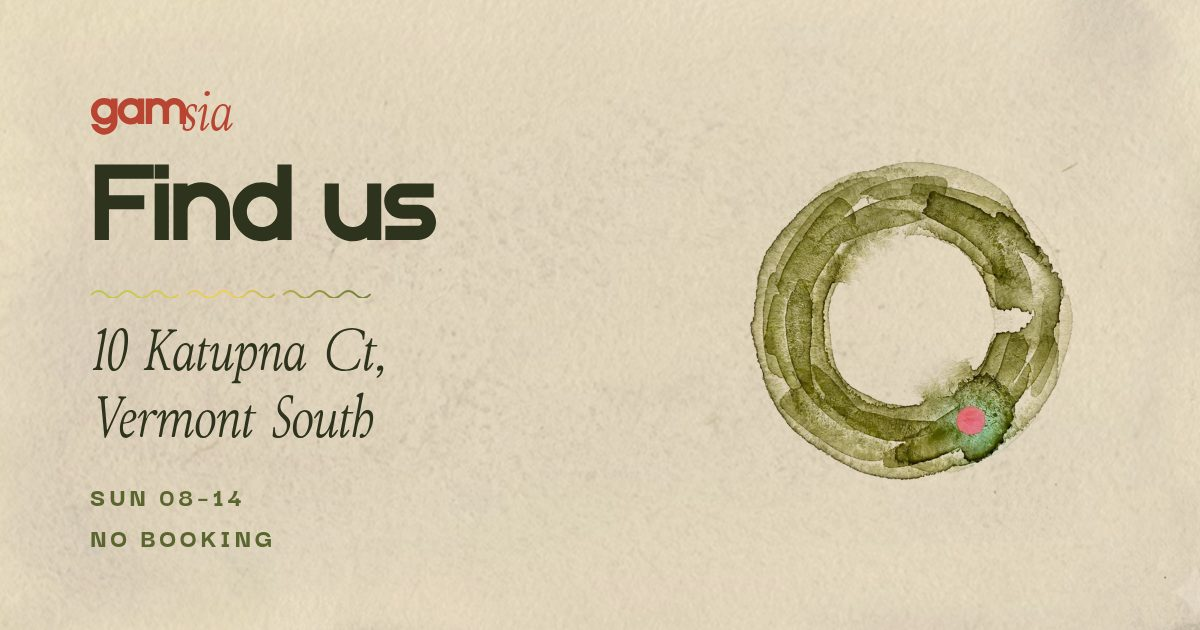
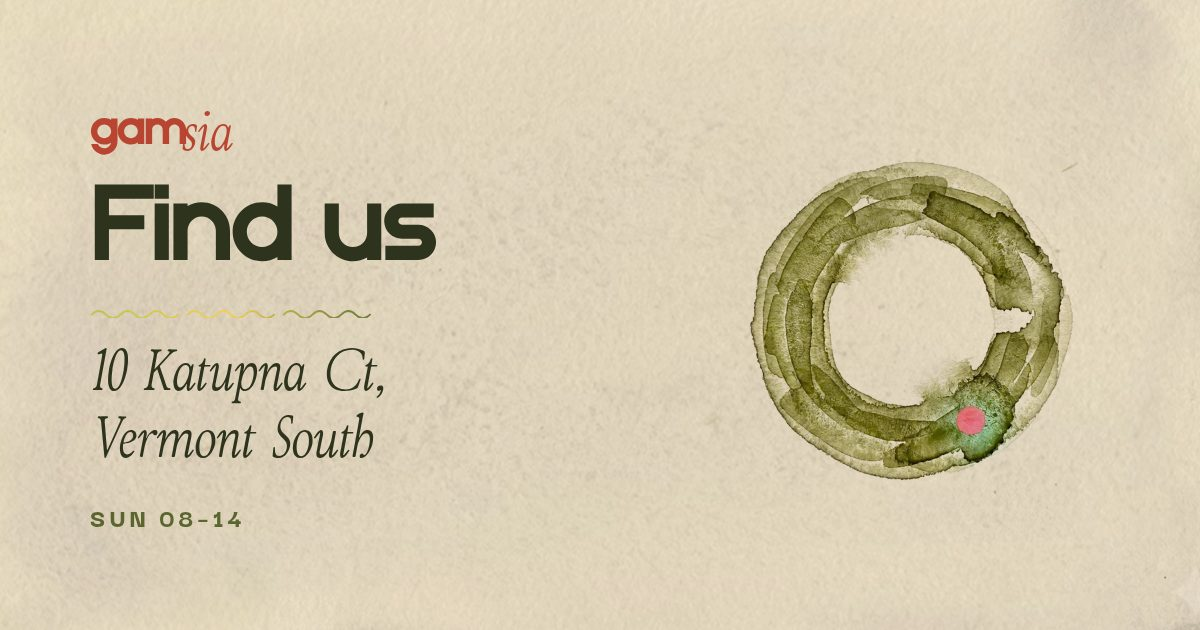
Drop the section notes that were not saying anything (#32)
Every heading on the site carried a two-word italic under it, and most of
them were padding. "The address / No booking" is a non-sequitur; "The room /
Six stools" repeats the first sentence of the paragraph below it word for
word; "The hours / All of them" and "Say hello / Not a form" say nothing at
all. On the board, "Cold / From the fridge" and "Matcha / Built to order"
restate the section name, and "Kitchen / Under the grill" and "Desserts /
Fresh from the oven" are decoration.

A tag under every heading also flattens the two notes that earn their place:
Coffee's "Oat, no charge" and Take home's "While it lasts" are both things a
customer acts on, and they read as filler when they are surrounded by filler.
Those two stay; the other eight are gone.

The find-us social card had "No booking" hardcoded in build-og.mjs — the one
string on any card written down in the tool rather than lifted from the site,
against that file's own rule. Its caps line is now just the hours.

The bars themselves are unchanged: sec-head is a flex row and the note was
always optional (app.js, sync-static.mjs and EDITING.md all already guarded
for its absence), so each bar simply shrinks to its name and its painting
follows. Checked on the board and on find-us, desktop and phone, including
the short names where the spot had the most room to reach back over the type.

diff --git a/menu.html b/menu.html
@@ -175,13 +175,13 @@
          the page works with no JavaScript and so crawlers can read it; if the
          two ever disagree the JSON wins and the board is rebuilt. -->
 <!--gen:board-->
-    <div class="board" data-menu-sig="1ncialf">
+    <div class="board" data-menu-sig="15rjyqm">
       <div class="board-col">
         <section class="sec" data-sec="coffee" style="--i:0"><div class="sec-head"><h2 class="sec-name">Coffee</h2><p class="sec-note">Oat, no charge</p><img class="spot spot--cup" width="330" height="177" alt="Watercolour of a green and lilac cup, half full, a small red mark on its side." loading="lazy" decoding="async" sizes="(max-width:719px) 240px, (max-width:1179px) 260px, 330px" srcset="art/spot-cup-330w.avif 330w, art/spot-cup-660w.avif 660w" src="art/spot-cup-660w.webp"></div><ul class="items"><li class="item" data-item="filter"><span class="item-name">Filter</span><span class="item-lead" aria-hidden="true"></span><span class="item-price">3.20</span></li><li class="item" data-item="espresso"><span class="item-name">Espresso</span><span class="item-lead" aria-hidden="true"></span><span class="item-price">2.60</span></li><li class="item" data-item="cortado"><span class="item-name">Cortado</span><span class="item-lead" aria-hidden="true"></span><span class="item-price">3.40</span></li><li class="item" data-item="flat-white"><span class="item-name">Flat white</span><span class="item-lead" aria-hidden="true"></span><span class="item-price">3.80</span></li><li class="item" data-item="latte"><span class="item-name">Latte</span><span class="item-lead" aria-hidden="true"></span><span class="item-price">4.00</span></li><li class="item" data-item="cold-brew"><span class="item-name">Cold brew</span><span class="item-lead" aria-hidden="true"></span><span class="item-price">4.20</span></li></ul></section>
-        <section class="sec sec--flip" data-sec="kitchen" style="--i:1"><div class="sec-head"><h2 class="sec-name">Kitchen</h2><p class="sec-note">Under the grill</p><img class="spot spot--toast" width="220" height="252" alt="Watercolour of two thick slices of toast stacked, a red drop of jam below them." loading="lazy" decoding="async" sizes="(max-width:719px) 170px, (max-width:1179px) 175px, 220px" srcset="art/spot-toast-220w.avif 220w, art/spot-toast-440w.avif 440w" src="art/spot-toast-440w.webp"></div><ul class="items"><li class="item" data-item="pho-toastie"><span class="item-name">Pho toastie</span><span class="item-lead" aria-hidden="true"></span><span class="item-price">13.50</span></li><li class="item" data-item="singaporean-chilli-prawn-roll"><span class="item-name">Singaporean chilli prawn roll</span><span class="item-lead" aria-hidden="true"></span><span class="item-price">15.00</span></li><li class="item" data-item="kaya-toast-soft-egg"><span class="item-name">Kaya toast, soft egg</span><span class="item-lead" aria-hidden="true"></span><span class="item-price">7.50</span></li></ul></section>
-        <section class="sec" data-sec="matcha" style="--i:2"><div class="sec-head"><h2 class="sec-name">Matcha</h2><p class="sec-note">Built to order</p><img class="spot spot--matcha" width="280" height="319" alt="Watercolour of a matcha bowl and a bamboo whisk, the green settling in the base." loading="lazy" decoding="async" sizes="(max-width:719px) 210px, (max-width:1179px) 225px, 280px" srcset="art/spot-matcha-280w.avif 280w, art/spot-matcha-560w.avif 560w" src="art/spot-matcha-560w.webp"></div><ul class="items"><li class="item" data-item="usucha-whisked-plain"><span class="item-name">Usucha, whisked plain</span><span class="item-lead" aria-hidden="true"></span><span class="item-price">4.60</span></li><li class="item" data-item="matcha-latte"><span class="item-name">Matcha latte</span><span class="item-lead" aria-hidden="true"></span><span class="item-price">5.00</span></li><li class="item" data-item="ceremonial-grade"><span class="item-name">Ceremonial grade</span><span class="item-lead" aria-hidden="true"></span><span class="item-price">6.20</span></li><li class="item" data-item="iced-matcha"><span class="item-name">Iced matcha</span><span class="item-lead" aria-hidden="true"></span><span class="item-price">5.00</span></li><li class="item" data-item="iced-matcha-latte"><span class="item-name">Iced matcha latte</span><span class="item-lead" aria-hidden="true"></span><span class="item-price">5.40</span></li><li class="item" data-item="matcha-tonic"><span class="item-name">Matcha tonic</span><span class="item-lead" aria-hidden="true"></span><span class="item-price">5.20</span></li><li class="item" data-item="hojicha-latte"><span class="item-name">Hojicha latte</span><span class="item-lead" aria-hidden="true"></span><span class="item-price">4.80</span></li></ul></section>
-        <section class="sec sec--flip" data-sec="cold" style="--i:3"><div class="sec-head"><h2 class="sec-name">Cold</h2><p class="sec-note">From the fridge</p><img class="spot spot--coldbrew" width="220" height="251" alt="Watercolour of a tumbler of iced coffee, the ice drawn as gaps left in the wash." loading="lazy" decoding="async" sizes="(max-width:719px) 190px, (max-width:1179px) 175px, 220px" srcset="art/spot-coldbrew-220w.avif 220w, art/spot-coldbrew-440w.avif 440w" src="art/spot-coldbrew-440w.webp"></div><ul class="items"><li class="item" data-item="iced-filter"><span class="item-name">Iced filter</span><span class="item-lead" aria-hidden="true"></span><span class="item-price">4.00</span></li><li class="item" data-item="vietnamese-iced-coffee"><span class="item-name">Vietnamese iced coffee</span><span class="item-lead" aria-hidden="true"></span><span class="item-price">5.80</span></li><li class="item" data-item="house-lemonade"><span class="item-name">House lemonade</span><span class="item-lead" aria-hidden="true"></span><span class="item-price">3.80</span></li><li class="item" data-item="yuzu-soda"><span class="item-name">Yuzu soda</span><span class="item-lead" aria-hidden="true"></span><span class="item-price">4.20</span></li></ul></section>
-        <section class="sec" data-sec="desserts" style="--i:4"><div class="sec-head"><h2 class="sec-name">Desserts</h2><p class="sec-note">Fresh from the oven</p><img class="spot spot--cake" width="300" height="342" alt="Watercolour of a slice of layer cake on a grey plate, a red cherry on top." loading="lazy" decoding="async" sizes="(max-width:719px) 230px, (max-width:1179px) 240px, 300px" srcset="art/spot-cake-300w.avif 300w, art/spot-cake-600w.avif 600w" src="art/spot-cake-600w.webp"><img class="spot spot--croissant" width="320" height="320" alt="Watercolour of a croissant in olive and grey, one flake of it catching red." loading="lazy" decoding="async" sizes="(max-width:719px) 250px, (max-width:1179px) 255px, 320px" srcset="art/spot-croissant-320w.avif 320w, art/spot-croissant-640w.avif 640w" src="art/spot-croissant-640w.webp"></div><ul class="items"><li class="item" data-item="matcha-basque-cheesecake"><span class="item-name">Matcha basque cheesecake</span><span class="item-lead" aria-hidden="true"></span><span class="item-price">6.50</span></li><li class="item" data-item="black-sesame-cookie"><span class="item-name">Black sesame cookie</span><span class="item-lead" aria-hidden="true"></span><span class="item-price">3.60</span></li><li class="item" data-item="cake-of-the-day"><span class="item-name">Cake of the day</span><span class="item-lead" aria-hidden="true"></span><span class="item-price">4.80</span></li><li class="item" data-item="cardamom-bun"><span class="item-name">Cardamom bun</span><span class="item-lead" aria-hidden="true"></span><span class="item-price">4.20</span></li><li class="item" data-item="croissant"><span class="item-name">Croissant</span><span class="item-lead" aria-hidden="true"></span><span class="item-price">3.60</span></li><li class="item" data-item="hojicha-custard-tart"><span class="item-name">Hojicha custard tart</span><span class="item-lead" aria-hidden="true"></span><span class="item-price">5.20</span></li></ul></section>
+        <section class="sec sec--flip" data-sec="kitchen" style="--i:1"><div class="sec-head"><h2 class="sec-name">Kitchen</h2><img class="spot spot--toast" width="220" height="252" alt="Watercolour of two thick slices of toast stacked, a red drop of jam below them." loading="lazy" decoding="async" sizes="(max-width:719px) 170px, (max-width:1179px) 175px, 220px" srcset="art/spot-toast-220w.avif 220w, art/spot-toast-440w.avif 440w" src="art/spot-toast-440w.webp"></div><ul class="items"><li class="item" data-item="pho-toastie"><span class="item-name">Pho toastie</span><span class="item-lead" aria-hidden="true"></span><span class="item-price">13.50</span></li><li class="item" data-item="singaporean-chilli-prawn-roll"><span class="item-name">Singaporean chilli prawn roll</span><span class="item-lead" aria-hidden="true"></span><span class="item-price">15.00</span></li><li class="item" data-item="kaya-toast-soft-egg"><span class="item-name">Kaya toast, soft egg</span><span class="item-lead" aria-hidden="true"></span><span class="item-price">7.50</span></li></ul></section>
+        <section class="sec" data-sec="matcha" style="--i:2"><div class="sec-head"><h2 class="sec-name">Matcha</h2><img class="spot spot--matcha" width="280" height="319" alt="Watercolour of a matcha bowl and a bamboo whisk, the green settling in the base." loading="lazy" decoding="async" sizes="(max-width:719px) 210px, (max-width:1179px) 225px, 280px" srcset="art/spot-matcha-280w.avif 280w, art/spot-matcha-560w.avif 560w" src="art/spot-matcha-560w.webp"></div><ul class="items"><li class="item" data-item="usucha-whisked-plain"><span class="item-name">Usucha, whisked plain</span><span class="item-lead" aria-hidden="true"></span><span class="item-price">4.60</span></li><li class="item" data-item="matcha-latte"><span class="item-name">Matcha latte</span><span class="item-lead" aria-hidden="true"></span><span class="item-price">5.00</span></li><li class="item" data-item="ceremonial-grade"><span class="item-name">Ceremonial grade</span><span class="item-lead" aria-hidden="true"></span><span class="item-price">6.20</span></li><li class="item" data-item="iced-matcha"><span class="item-name">Iced matcha</span><span class="item-lead" aria-hidden="true"></span><span class="item-price">5.00</span></li><li class="item" data-item="iced-matcha-latte"><span class="item-name">Iced matcha latte</span><span class="item-lead" aria-hidden="true"></span><span class="item-price">5.40</span></li><li class="item" data-item="matcha-tonic"><span class="item-name">Matcha tonic</span><span class="item-lead" aria-hidden="true"></span><span class="item-price">5.20</span></li><li class="item" data-item="hojicha-latte"><span class="item-name">Hojicha latte</span><span class="item-lead" aria-hidden="true"></span><span class="item-price">4.80</span></li></ul></section>
+        <section class="sec sec--flip" data-sec="cold" style="--i:3"><div class="sec-head"><h2 class="sec-name">Cold</h2><img class="spot spot--coldbrew" width="220" height="251" alt="Watercolour of a tumbler of iced coffee, the ice drawn as gaps left in the wash." loading="lazy" decoding="async" sizes="(max-width:719px) 190px, (max-width:1179px) 175px, 220px" srcset="art/spot-coldbrew-220w.avif 220w, art/spot-coldbrew-440w.avif 440w" src="art/spot-coldbrew-440w.webp"></div><ul class="items"><li class="item" data-item="iced-filter"><span class="item-name">Iced filter</span><span class="item-lead" aria-hidden="true"></span><span class="item-price">4.00</span></li><li class="item" data-item="vietnamese-iced-coffee"><span class="item-name">Vietnamese iced coffee</span><span class="item-lead" aria-hidden="true"></span><span class="item-price">5.80</span></li><li class="item" data-item="house-lemonade"><span class="item-name">House lemonade</span><span class="item-lead" aria-hidden="true"></span><span class="item-price">3.80</span></li><li class="item" data-item="yuzu-soda"><span class="item-name">Yuzu soda</span><span class="item-lead" aria-hidden="true"></span><span class="item-price">4.20</span></li></ul></section>
+        <section class="sec" data-sec="desserts" style="--i:4"><div class="sec-head"><h2 class="sec-name">Desserts</h2><img class="spot spot--cake" width="300" height="342" alt="Watercolour of a slice of layer cake on a grey plate, a red cherry on top." loading="lazy" decoding="async" sizes="(max-width:719px) 230px, (max-width:1179px) 240px, 300px" srcset="art/spot-cake-300w.avif 300w, art/spot-cake-600w.avif 600w" src="art/spot-cake-600w.webp"><img class="spot spot--croissant" width="320" height="320" alt="Watercolour of a croissant in olive and grey, one flake of it catching red." loading="lazy" decoding="async" sizes="(max-width:719px) 250px, (max-width:1179px) 255px, 320px" srcset="art/spot-croissant-320w.avif 320w, art/spot-croissant-640w.avif 640w" src="art/spot-croissant-640w.webp"></div><ul class="items"><li class="item" data-item="matcha-basque-cheesecake"><span class="item-name">Matcha basque cheesecake</span><span class="item-lead" aria-hidden="true"></span><span class="item-price">6.50</span></li><li class="item" data-item="black-sesame-cookie"><span class="item-name">Black sesame cookie</span><span class="item-lead" aria-hidden="true"></span><span class="item-price">3.60</span></li><li class="item" data-item="cake-of-the-day"><span class="item-name">Cake of the day</span><span class="item-lead" aria-hidden="true"></span><span class="item-price">4.80</span></li><li class="item" data-item="cardamom-bun"><span class="item-name">Cardamom bun</span><span class="item-lead" aria-hidden="true"></span><span class="item-price">4.20</span></li><li class="item" data-item="croissant"><span class="item-name">Croissant</span><span class="item-lead" aria-hidden="true"></span><span class="item-price">3.60</span></li><li class="item" data-item="hojicha-custard-tart"><span class="item-name">Hojicha custard tart</span><span class="item-lead" aria-hidden="true"></span><span class="item-price">5.20</span></li></ul></section>
         <section class="sec sec--flip" data-sec="take-home" style="--i:5"><div class="sec-head"><h2 class="sec-name">Take home</h2><p class="sec-note">While it lasts</p><img class="spot spot--beans" width="200" height="228" alt="Watercolour of a paper bag of coffee, the dark green showing through the sides." loading="lazy" decoding="async" sizes="(max-width:719px) 170px, (max-width:1179px) 160px, 200px" srcset="art/spot-beans-200w.avif 200w, art/spot-beans-400w.avif 400w" src="art/spot-beans-400w.webp"></div><ul class="items"><li class="item" data-item="beans-250g"><span class="item-name">Beans, 250g</span><span class="item-lead" aria-hidden="true"></span><span class="item-price">12.00</span></li><li class="item" data-item="matcha-30g"><span class="item-name">Matcha, 30g</span><span class="item-lead" aria-hidden="true"></span><span class="item-price">18.00</span></li><li class="item" data-item="filter-papers"><span class="item-name">Filter papers</span><span class="item-lead" aria-hidden="true"></span><span class="item-price">4.00</span></li></ul></section>
       </div>
     </div>

diff --git a/index.html b/index.html
@@ -197,9 +197,9 @@
     <div class="page-rule" aria-hidden="true"></div>
 
 <!--gen:preview-->
-    <div class="preview-cols" data-preview-sig="1chilqf">
+    <div class="preview-cols" data-preview-sig="1p4bclo">
       <section class="sec" data-sec="coffee" style="--i:0"><div class="sec-head"><h3 class="sec-name">Coffee</h3><p class="sec-note">Oat, no charge</p><img class="spot spot--cup" width="330" height="177" alt="Watercolour of a green and lilac cup, half full, a small red mark on its side." loading="lazy" decoding="async" sizes="(max-width:719px) 240px, (max-width:1179px) 260px, 330px" srcset="art/spot-cup-330w.avif 330w, art/spot-cup-660w.avif 660w" src="art/spot-cup-660w.webp"></div><ul class="items"><li class="item" data-item="filter"><span class="item-name">Filter</span><span class="item-lead" aria-hidden="true"></span><span class="item-price">3.20</span></li><li class="item" data-item="espresso"><span class="item-name">Espresso</span><span class="item-lead" aria-hidden="true"></span><span class="item-price">2.60</span></li><li class="item" data-item="cortado"><span class="item-name">Cortado</span><span class="item-lead" aria-hidden="true"></span><span class="item-price">3.40</span></li><li class="item" data-item="flat-white"><span class="item-name">Flat white</span><span class="item-lead" aria-hidden="true"></span><span class="item-price">3.80</span></li></ul><p class="sec-more">and 2 more</p></section>
-      <section class="sec sec--flip" data-sec="kitchen" style="--i:1"><div class="sec-head"><h3 class="sec-name">Kitchen</h3><p class="sec-note">Under the grill</p><img class="spot spot--toast" width="220" height="252" alt="Watercolour of two thick slices of toast stacked, a red drop of jam below them." loading="lazy" decoding="async" sizes="(max-width:719px) 170px, (max-width:1179px) 175px, 220px" srcset="art/spot-toast-220w.avif 220w, art/spot-toast-440w.avif 440w" src="art/spot-toast-440w.webp"></div><ul class="items"><li class="item" data-item="pho-toastie"><span class="item-name">Pho toastie</span><span class="item-lead" aria-hidden="true"></span><span class="item-price">13.50</span></li><li class="item" data-item="singaporean-chilli-prawn-roll"><span class="item-name">Singaporean chilli prawn roll</span><span class="item-lead" aria-hidden="true"></span><span class="item-price">15.00</span></li><li class="item" data-item="kaya-toast-soft-egg"><span class="item-name">Kaya toast, soft egg</span><span class="item-lead" aria-hidden="true"></span><span class="item-price">7.50</span></li></ul></section>
+      <section class="sec sec--flip" data-sec="kitchen" style="--i:1"><div class="sec-head"><h3 class="sec-name">Kitchen</h3><img class="spot spot--toast" width="220" height="252" alt="Watercolour of two thick slices of toast stacked, a red drop of jam below them." loading="lazy" decoding="async" sizes="(max-width:719px) 170px, (max-width:1179px) 175px, 220px" srcset="art/spot-toast-220w.avif 220w, art/spot-toast-440w.avif 440w" src="art/spot-toast-440w.webp"></div><ul class="items"><li class="item" data-item="pho-toastie"><span class="item-name">Pho toastie</span><span class="item-lead" aria-hidden="true"></span><span class="item-price">13.50</span></li><li class="item" data-item="singaporean-chilli-prawn-roll"><span class="item-name">Singaporean chilli prawn roll</span><span class="item-lead" aria-hidden="true"></span><span class="item-price">15.00</span></li><li class="item" data-item="kaya-toast-soft-egg"><span class="item-name">Kaya toast, soft egg</span><span class="item-lead" aria-hidden="true"></span><span class="item-price">7.50</span></li></ul></section>
     </div>
     <div class="preview-tail">
       <p class="preview-rest">Also on the menu: Matcha, Cold, Desserts, Take home.</p>

diff --git a/find-us.html b/find-us.html
@@ -174,8 +174,7 @@
     <div class="find">
       <div>
         <section class="sec">
-          
-          <div class="sec-head"><h2 class="sec-name">The address</h2><p class="sec-note">No booking</p><img class="spot spot--flatwhite" width="380" height="380"
+          <div class="sec-head"><h2 class="sec-name">The address</h2><img class="spot spot--flatwhite" width="380" height="380"
                alt="Watercolour of a flat white seen from above, the crema drawn as one olive ring."
                loading="lazy" decoding="async"
                sizes="(max-width:719px) 280px, (max-width:1179px) 300px, 380px"
@@ -189,7 +188,7 @@
         </section>
 
         <section class="sec">
-          <div class="sec-head"><h2 class="sec-name">The room</h2><p class="sec-note">Six stools</p></div>
+          <div class="sec-head"><h2 class="sec-name">The room</h2></div>
           <p>One long counter, six stools, and four tables along the window. It is one room and one morning a week, so it fills and then it empties.</p>
           <p>It is quiet for the first hour and again at the end. Nobody will come and ask whether you would like anything else.</p>
           <p>gam sia is Hokkien for thank you. It is what we say when you go.</p>
@@ -198,7 +197,7 @@
 
       <div>
         <section class="sec">
-          <div class="sec-head"><h2 class="sec-name">The hours</h2><p class="sec-note">All of them</p></div>
+          <div class="sec-head"><h2 class="sec-name">The hours</h2></div>
           <div class="week" aria-hidden="true">
 <!--gen:week-->
           <span class="week-day" title="Monday, closed"><span class="week-letter">M</span><span class="week-mark"><span class="week-bar"></span></span></span>
@@ -220,7 +219,7 @@
         </section>
 
         <section class="sec">
-          <div class="sec-head"><h2 class="sec-name">Say hello</h2><p class="sec-note">Not a form</p></div>
+          <div class="sec-head"><h2 class="sec-name">Say hello</h2></div>
           <div class="find-links">
             <a href="tel:+61395600417">+61 3 9560 0417</a>
             <a href="mailto:hello@gamsia.cafe">hello@gamsia.cafe</a>

diff --git a/README.md b/README.md
@@ -196,6 +196,15 @@ same `npm i --no-save playwright` as `check-contrast.mjs`.
   These used to be lists of slugs in the stylesheet, so renaming Kitchen to
   Desserts sent it to the top of the phone board and dropped a teapot on top
   of Coffee's prices.
+- **A heading only gets a note when the note says something.** The italic
+  tucked under a section name is optional everywhere it appears, and most
+  sections do without. It used to be on all of them, and reading down the page
+  they were mostly filler: Cold was "From the fridge", Desserts "Fresh from the
+  oven", The address "No booking". A two-word tag under every heading reads as
+  padding and makes the ones that matter — Coffee's "Oat, no charge", Take
+  home's "While it lasts" — look like more of the same. The board's `note` is
+  for something a customer would act on; the room, the hours and the address
+  say what they are and stop.
 - **The type carries its own paper.** Each hero's copy sits on a wash sized by
   the copy itself (`.hero-type::before`), not on the fixed `.strip`. The strip
   is a percentage of the hero while the copy is however many lines someone

diff --git a/EDITING.md b/EDITING.md
@@ -27,8 +27,10 @@ This is the menu. Each block is one section of the board.
 
 - **`name`** and **`price`** are the two things you will change most. Prices are
   plain numbers in quotes, no pound sign; the page adds nothing to them.
-- **`note`** is the small capitals line beside the section name. Leave it out
-  if there isn't one.
+- **`note`** is the small line beside the section name. It is for something a
+  customer would act on, like Coffee's *Oat, no charge* — not a description of
+  the section, which the name already gives. Leave it out if there isn't one.
+  Most sections don't have one.
 - **`standfirst`** is the longer italic line under the items. No section
   carries one at the moment; add the field back to a section and the line
   returns. Keep it to about two lines; it is cut off past 34 characters a
